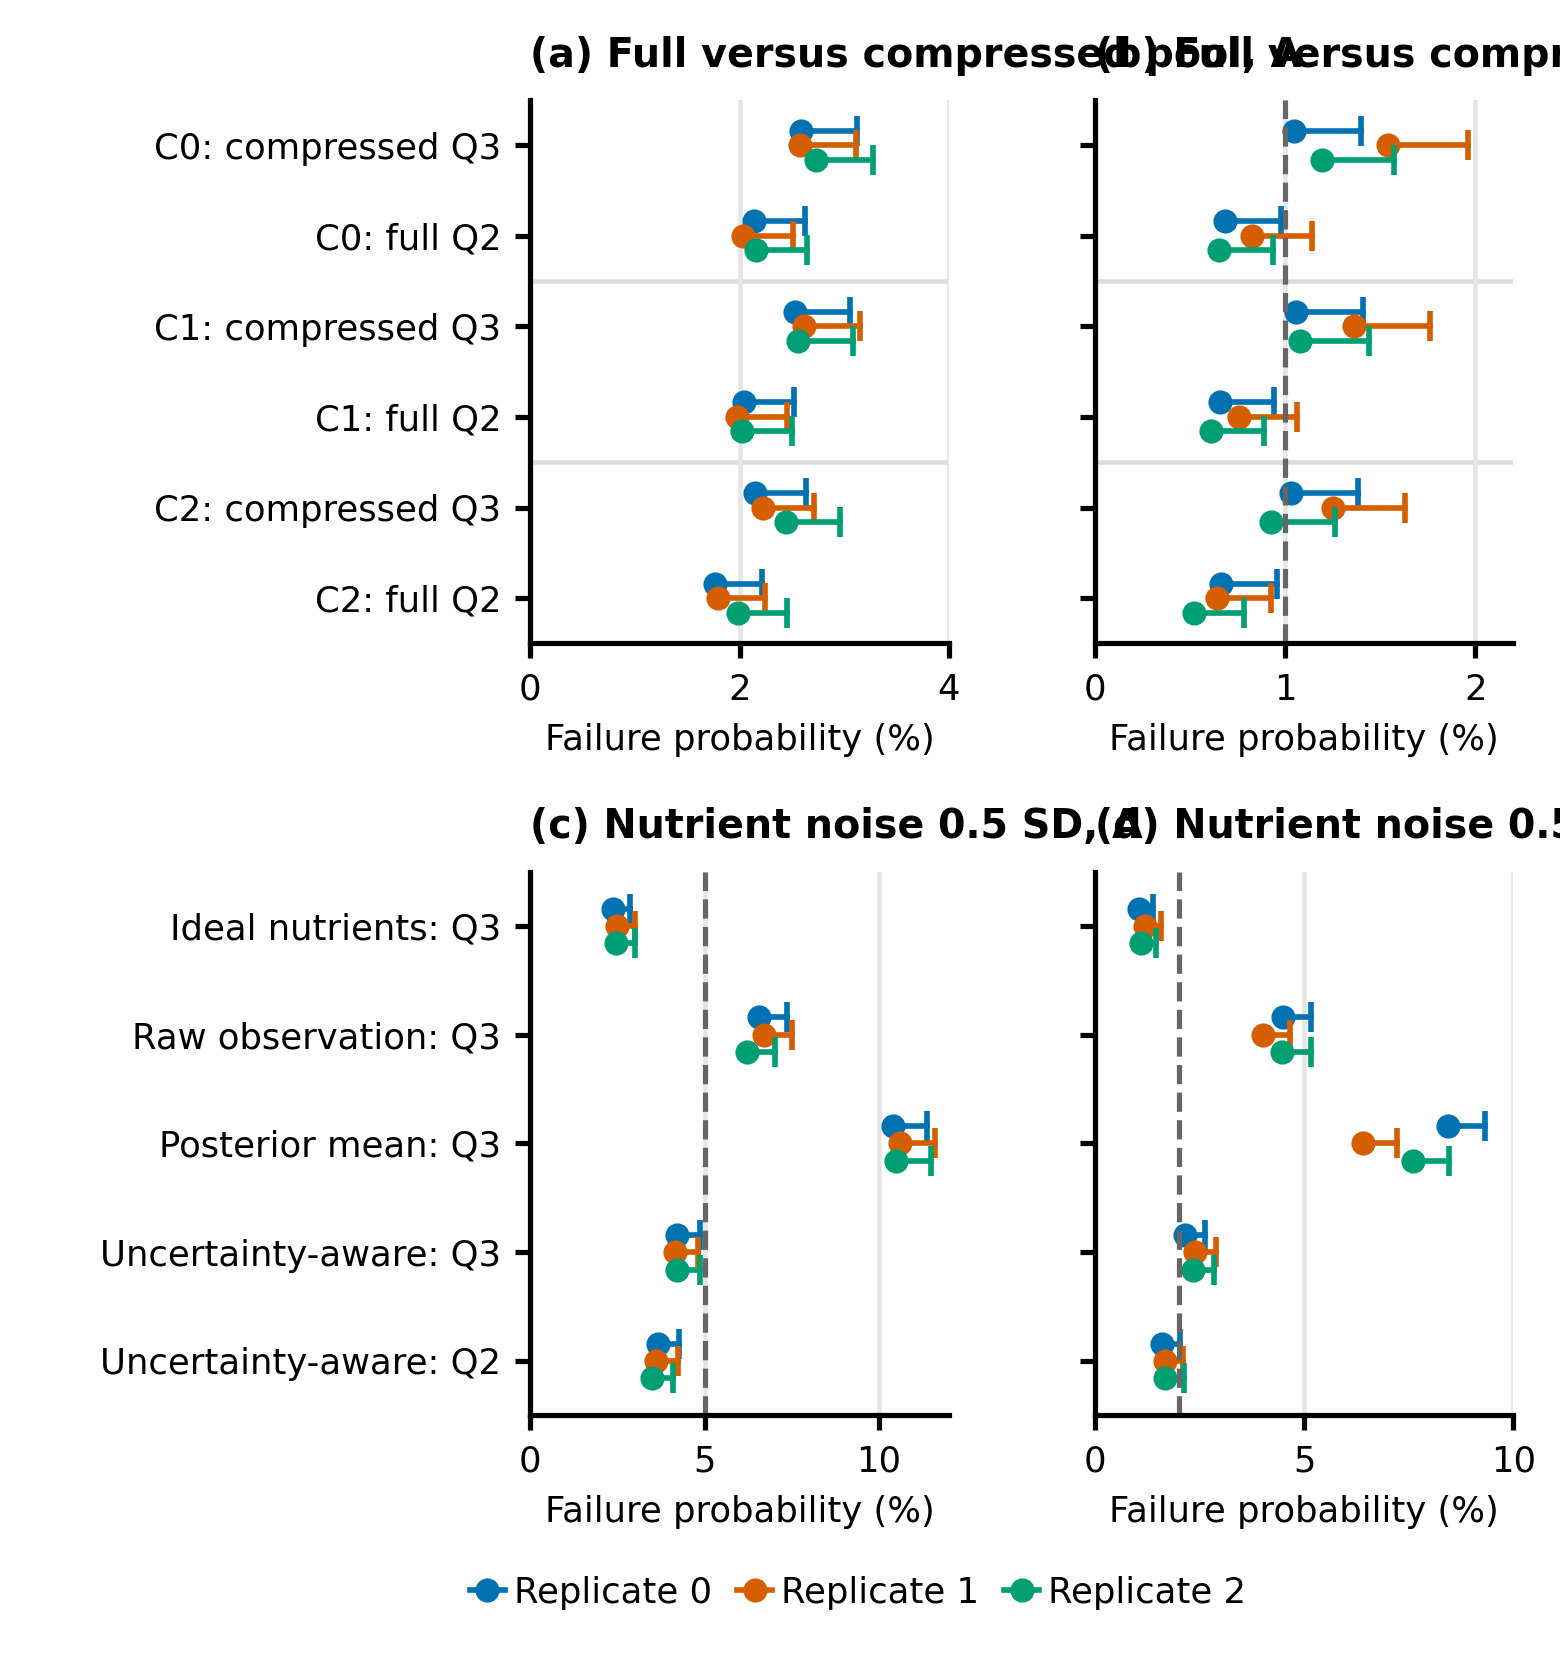
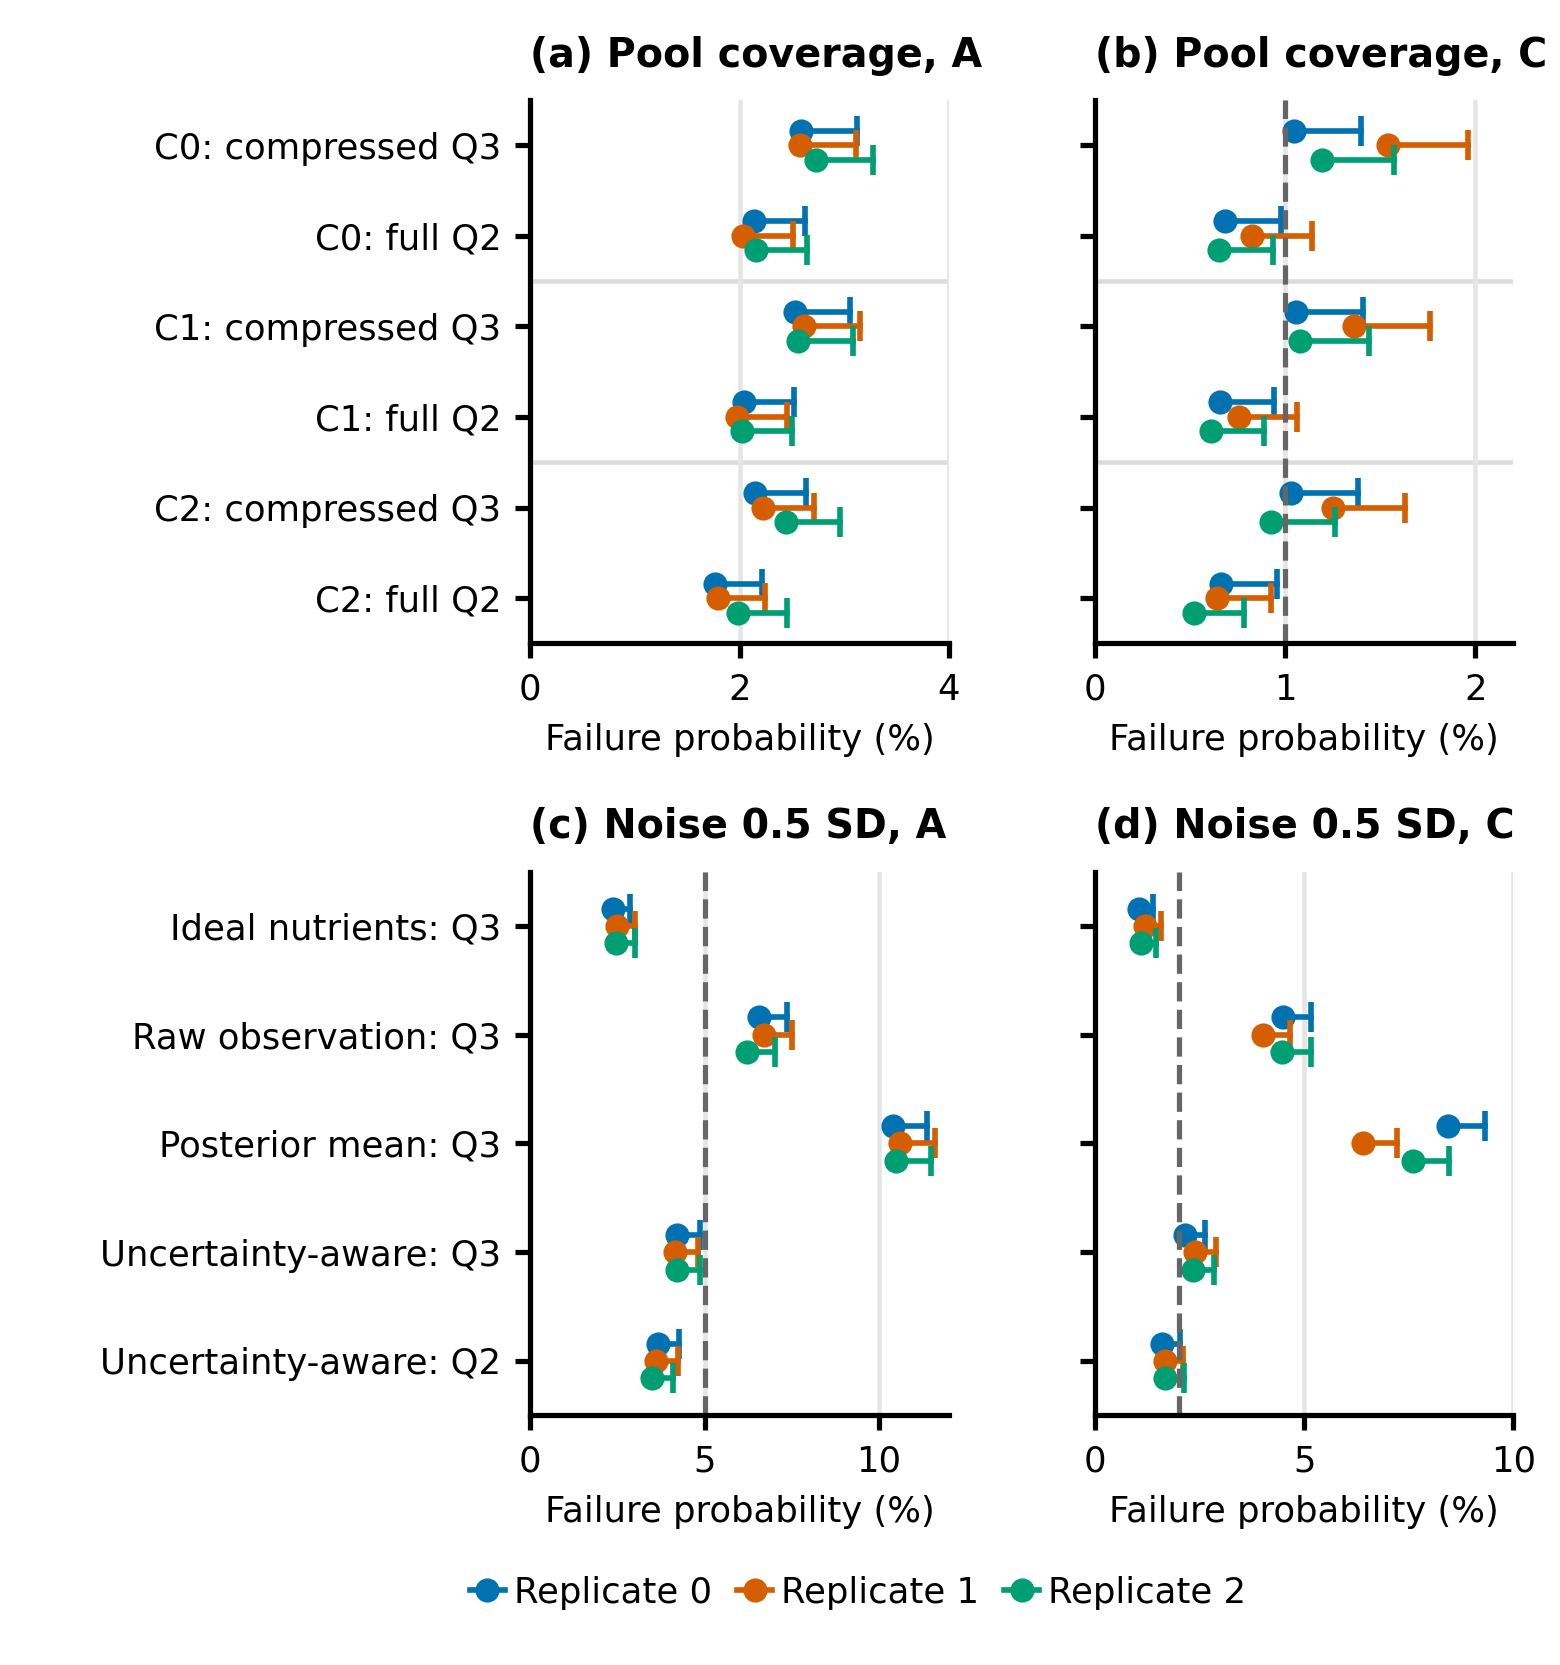
Figures: shorter panel titles for Fig. 3; refreshed figure bindings

diff --git a/extensions/figures/make_main_figures.py b/extensions/figures/make_main_figures.py
@@ -181,7 +181,7 @@ def fig_coverage_measurement(data: Path, out: Path) -> dict:
         ax.set_yticks(ys, labels=labels if col == 0 else [""] * len(labels)); ax.set_ylim(5.5, -0.5)
         ax.set_xlim(0, 4 if case == "A" else 2.2)
         ax.axvline(1 if case == "C" else 5, color="#666666", linestyle="--", linewidth=1.25)
-        ax.set_title(f"({chr(97 + col)}) Full versus compressed pool, {case}", loc="left", fontweight="bold", fontsize=9.5, pad=8)
+        ax.set_title(f"({chr(97 + col)}) Pool coverage, {case}", loc="left", fontweight="bold", fontsize=9.5, pad=8)
         ax.set_xlabel("Failure probability (%)")
         for y in [1.5, 3.5]:
             ax.axhline(y, color="#DCDCDC", linewidth=1.1, zorder=0)
@@ -206,7 +206,7 @@ def fig_coverage_measurement(data: Path, out: Path) -> dict:
         ax.set_xlim(0, 12 if case == "A" else 10)
         ax.axvline(5 if case == "A" else 2, color="#666666", linestyle="--", linewidth=1.25)
         ax.set_xlabel("Failure probability (%)")
-        ax.set_title(f"({chr(99 + col)}) Nutrient noise 0.5 SD, {case}", loc="left", fontweight="bold", fontsize=9.5, pad=8)
+        ax.set_title(f"({chr(99 + col)}) Noise 0.5 SD, {case}", loc="left", fontweight="bold", fontsize=9.5, pad=8)
         ax.grid(axis="x", color="#E5E5E5", linewidth=1.1, zorder=0); ax.spines[["top", "right"]].set_visible(False)
     handles = [Line2D([], [], color=c, marker="o", linewidth=1.35, label=f"Replicate {i}", markersize=4.5) for i, c in enumerate(COLORS)]
     fig.legend(handles=handles, ncol=3, loc="lower center", bbox_to_anchor=(0.55, 0.014), frameon=False,
